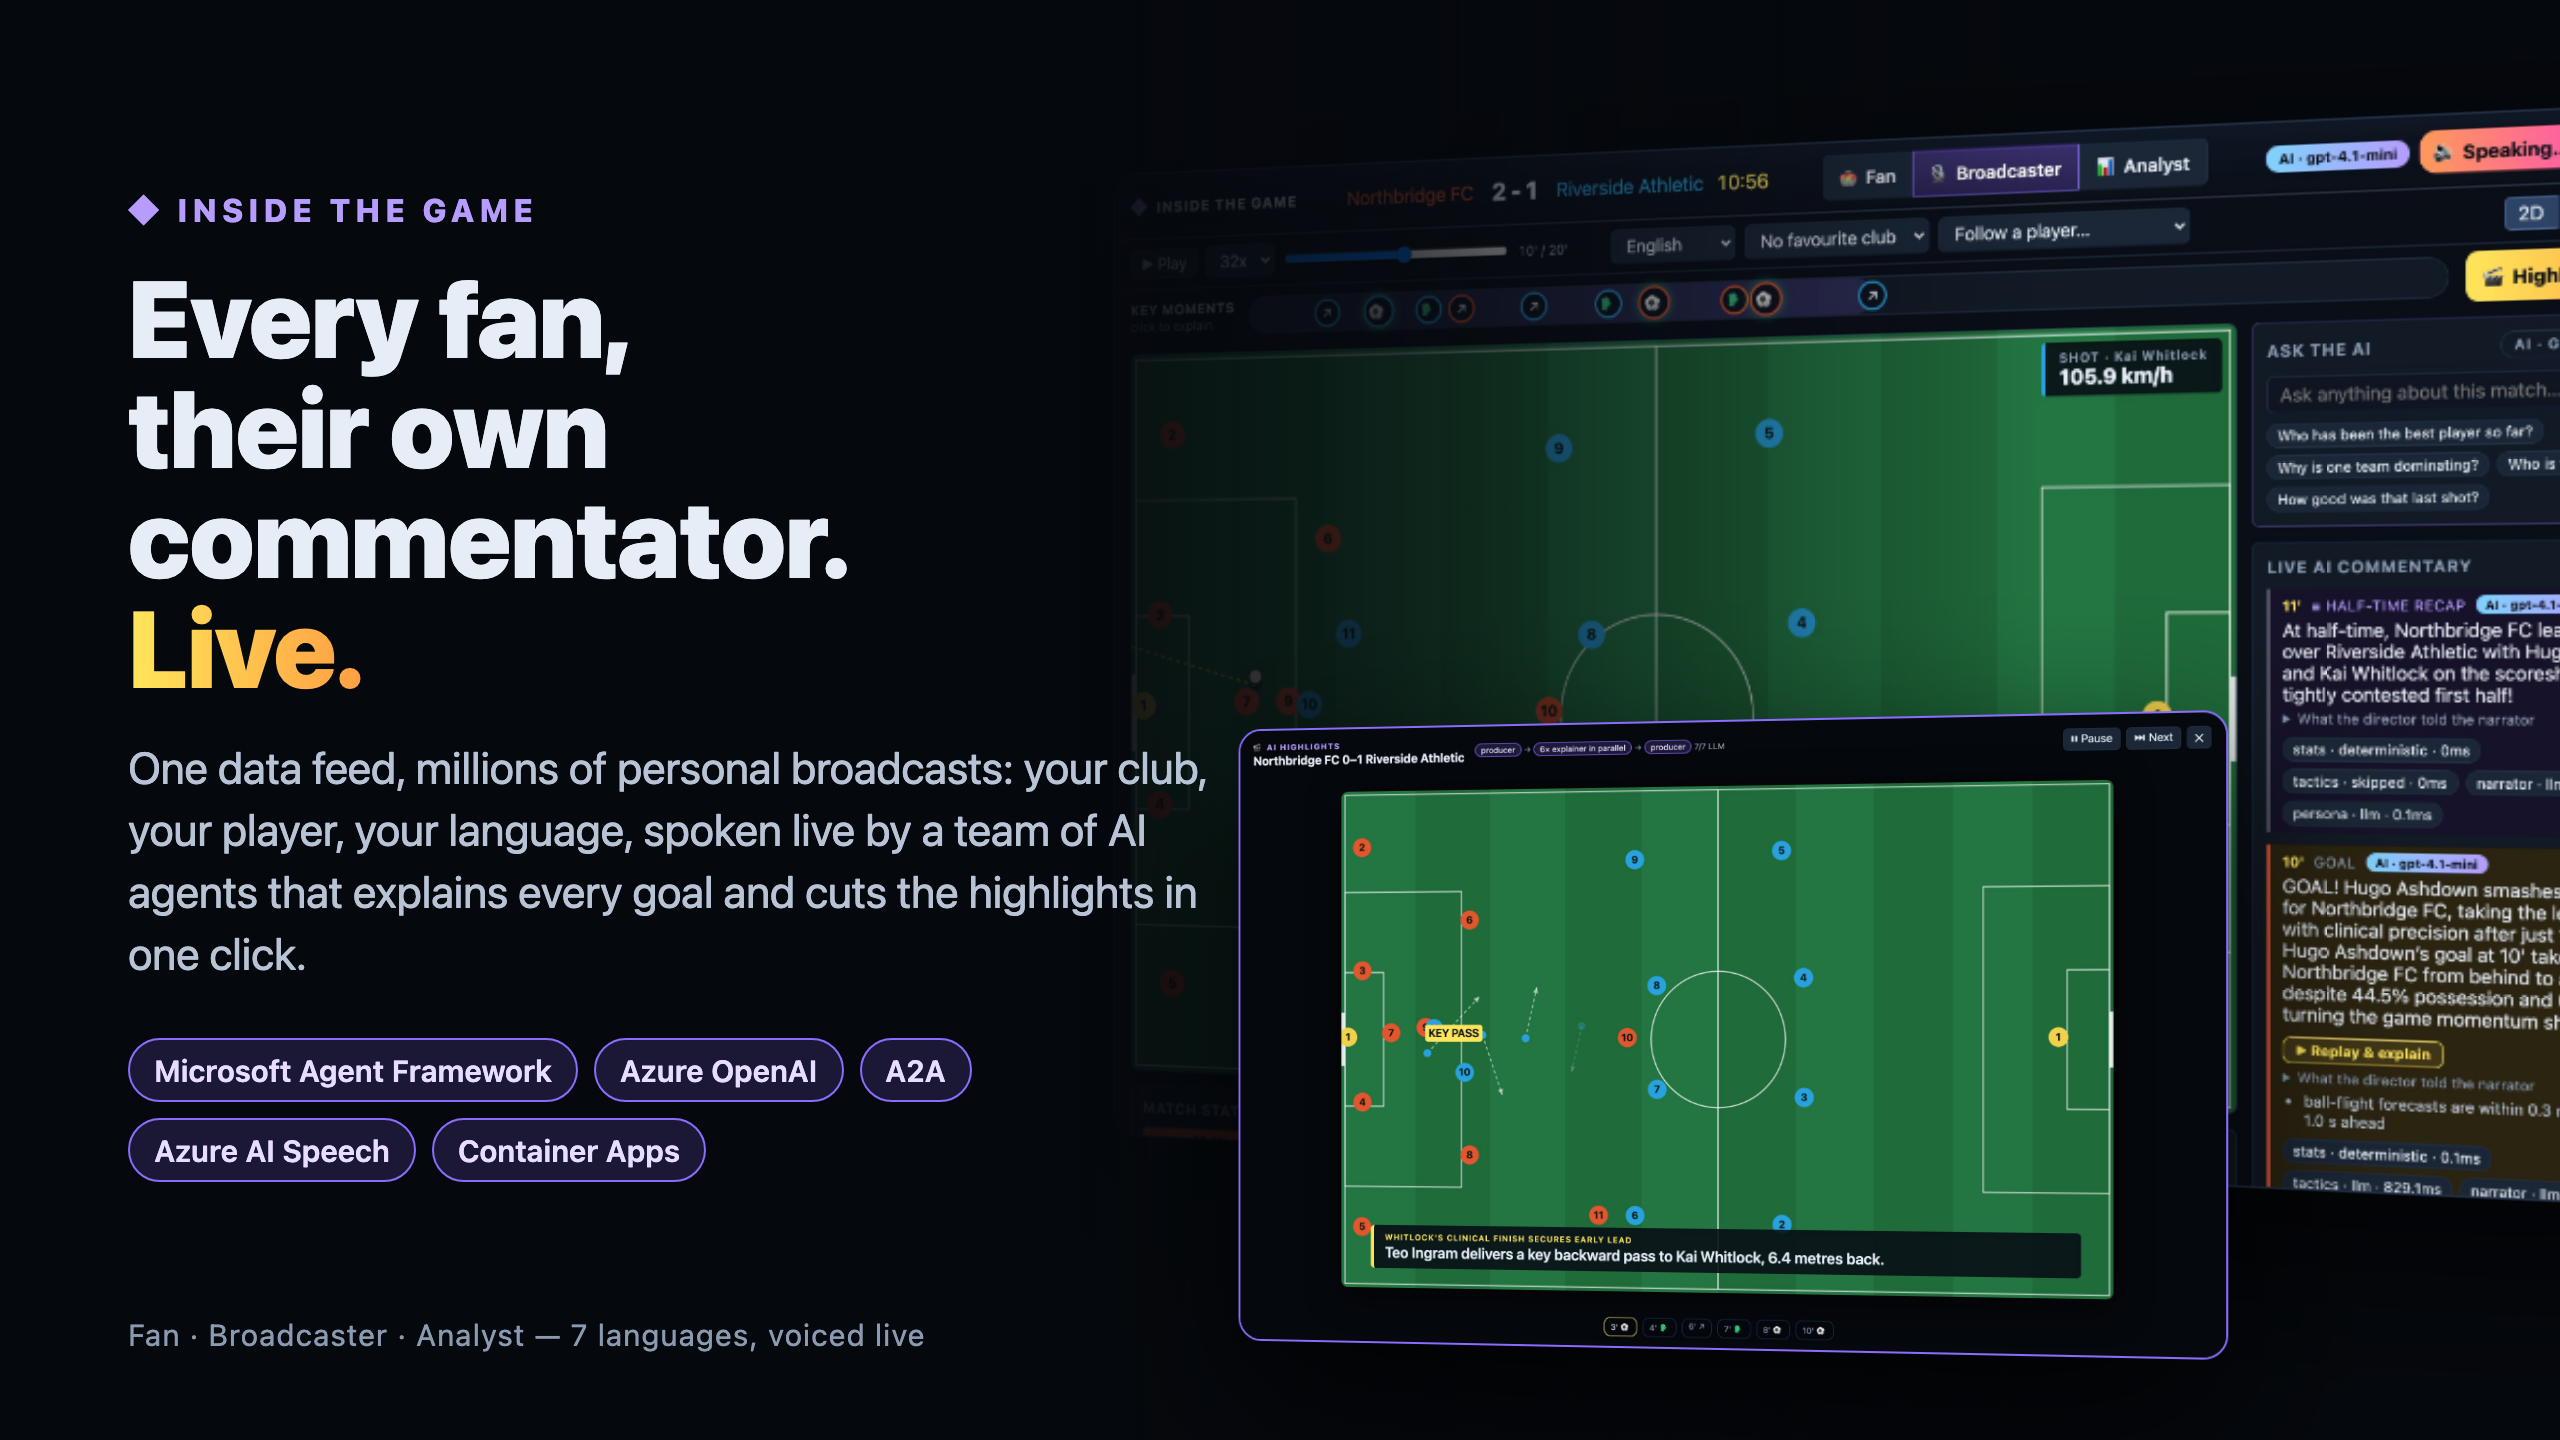
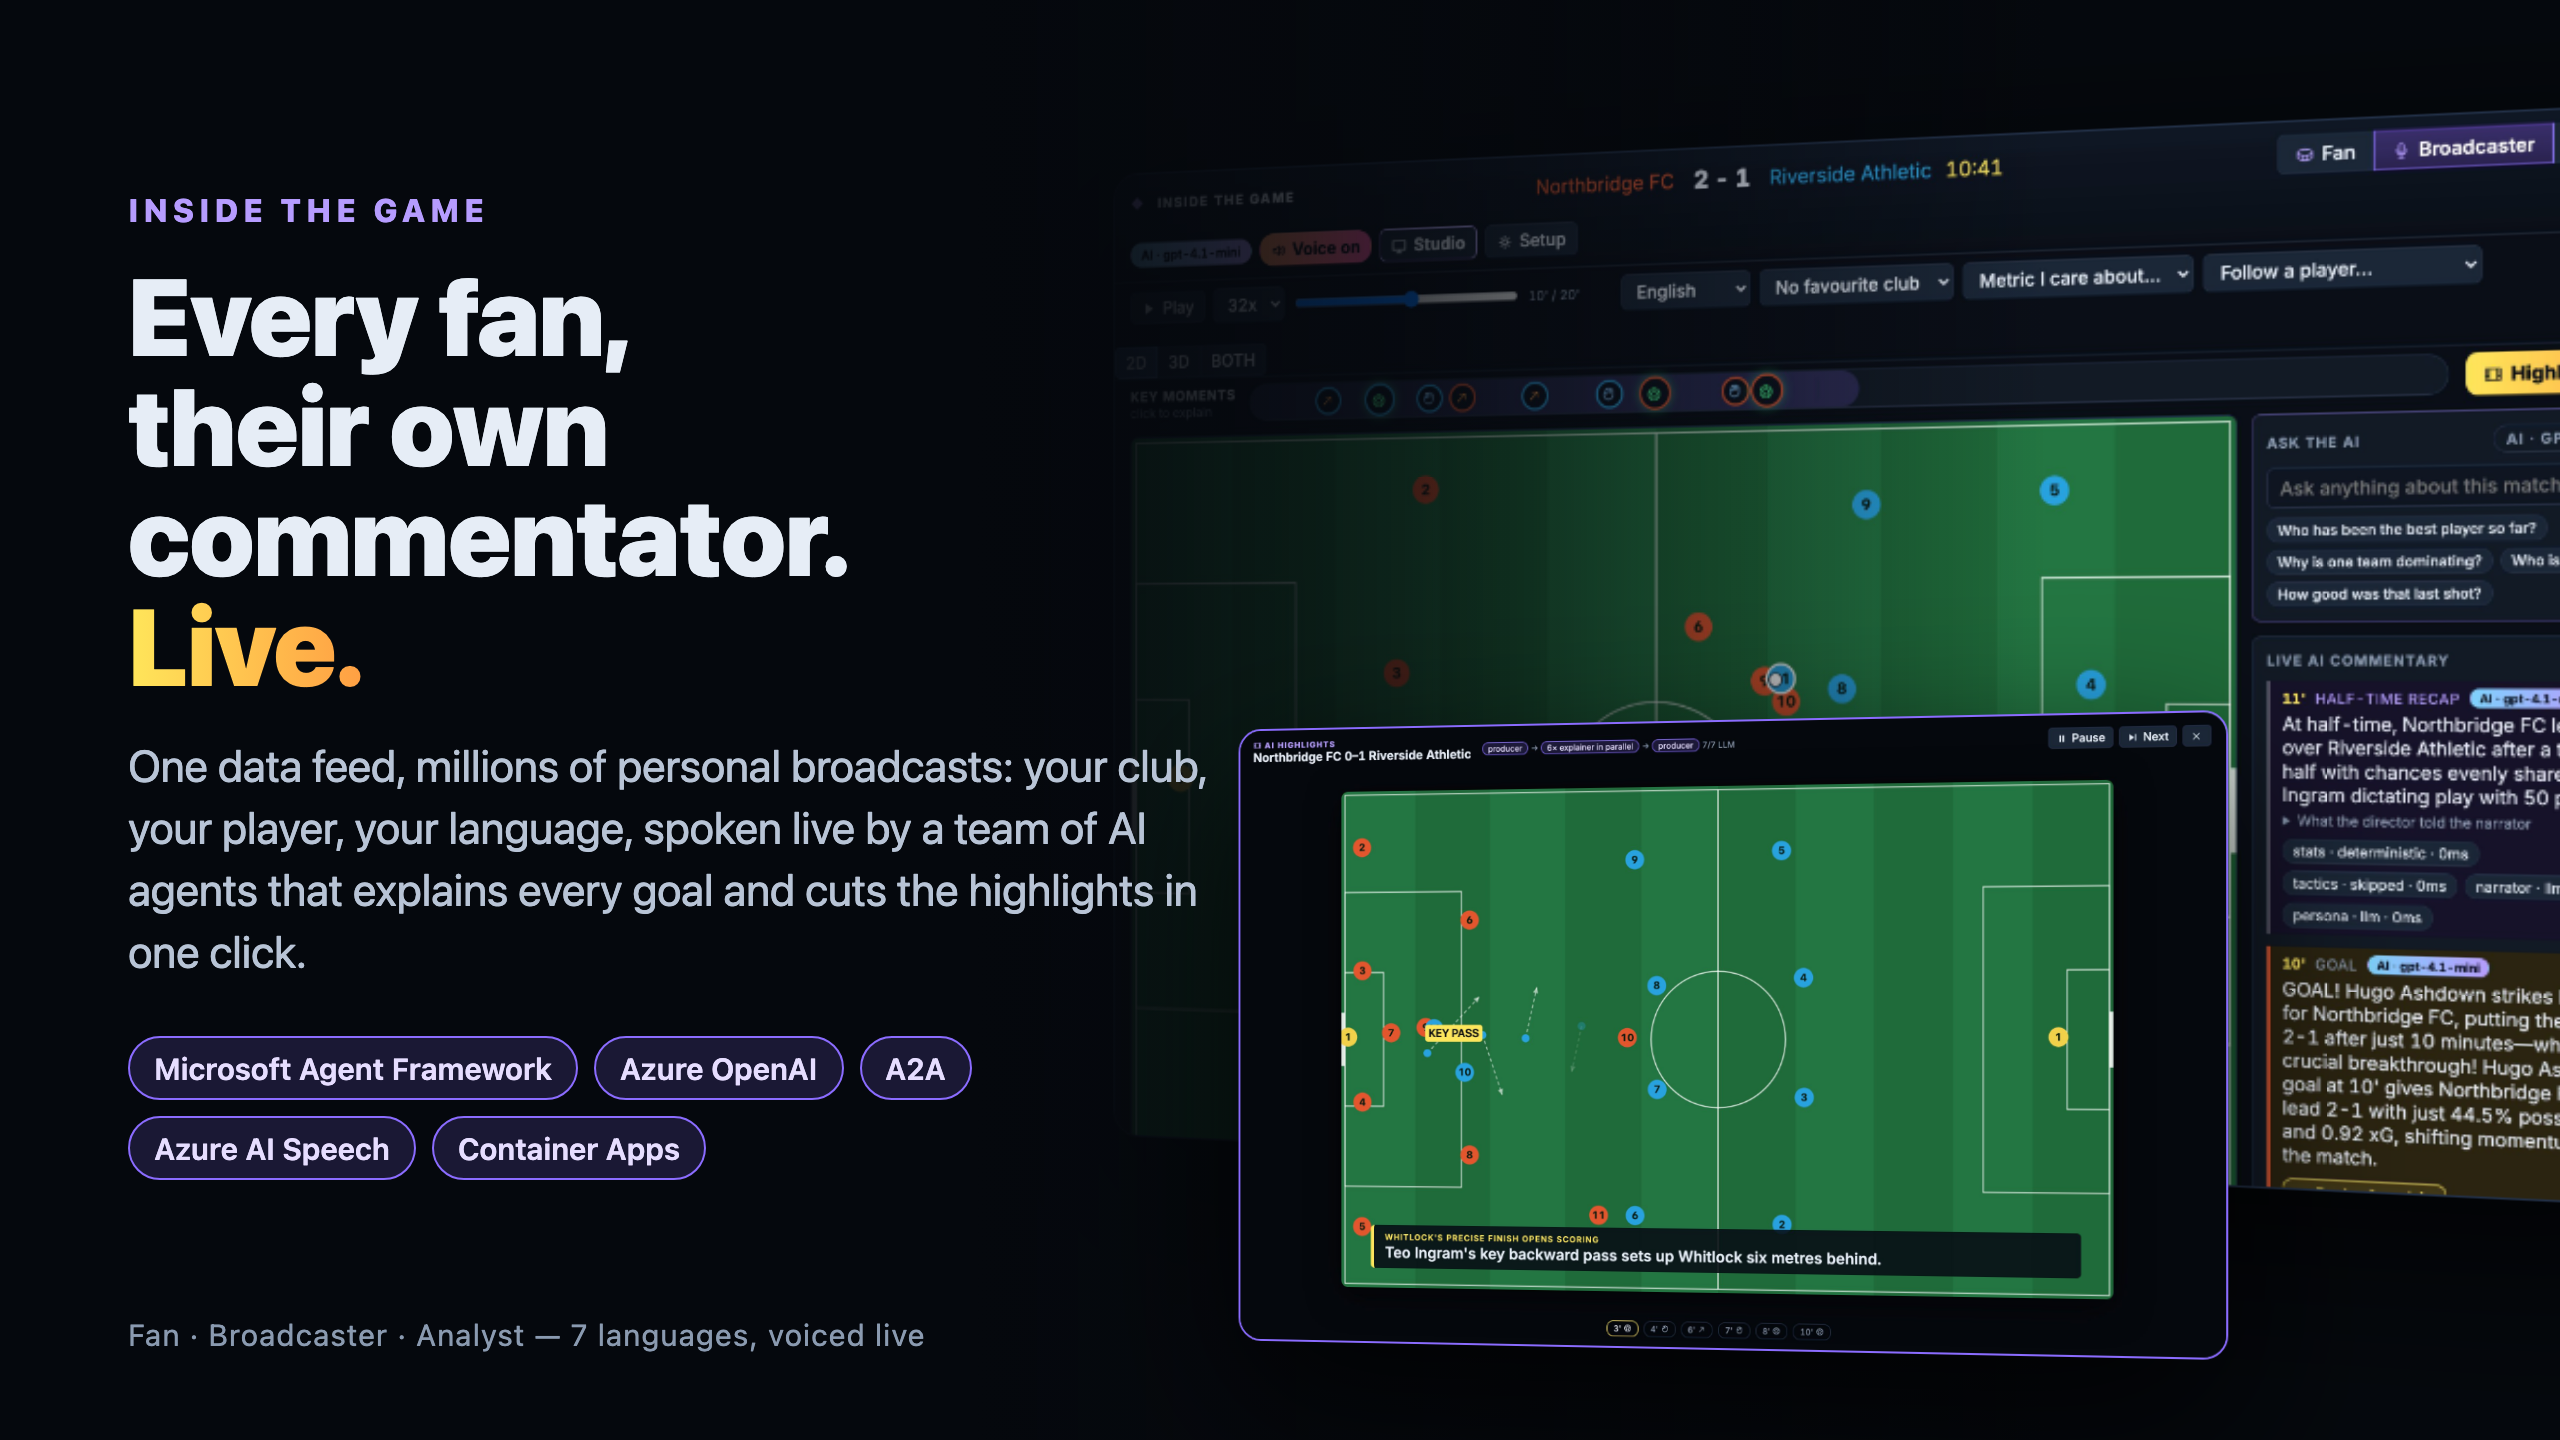
Screenshots and cover from the emoji-free build; Studio mode is the README hero

diff --git a/README.md b/README.md
@@ -13,12 +13,12 @@ each viewer, which also makes the match accessible to fans who cannot see the sc
 **Live demo:** https://insidethegame.delightfulforest-cce043aa.swedencentral.azurecontainerapps.io
 (Azure Container Apps + `gpt-4.1-mini` on Azure OpenAI. Try Analyst mode, Türkçe, or "Follow a player".)
 
-![Broadcaster view: live pitch, key moments timeline, AI commentary with the agent trace](docs/img/live-broadcaster.jpg)
+![Studio mode: the broadcast output, with the score bug, graphics cues, the commentary as a lower third and the agent strip](docs/img/studio.jpg)
 
 | Explain this moment: telestrated replay, analyst voice | AI highlights: producer + explainers in parallel |
 |---|---|
 | ![Explain this moment](docs/img/explain-3.jpg) | ![Highlights reel clip](docs/img/reel-clip.jpg) |
-| ![Who's watching: Fan, Broadcaster, Analyst](docs/img/kickoff.jpg) | ![Highlights clip card](docs/img/reel-card.jpg) |
+| ![Broadcaster view: live pitch, key moments timeline, AI commentary with the agent trace](docs/img/live-broadcaster.jpg) | ![Highlights clip card](docs/img/reel-card.jpg) |
 
 What to try:
 - **Studio mode:** the output as a broadcast or stream would carry it. Full-screen pitch, the score bug, the
